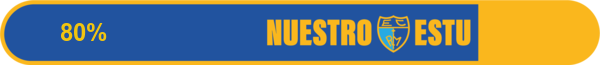
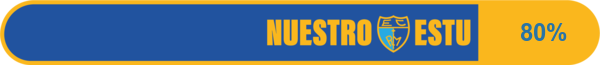
80%

Changed region(s): [[0.09, 0.3385, 0.18, 0.6462], [0.87, 0.3385, 0.96, 0.6462]]

diff --git a/public/noticias/encuesta/index.html b/public/noticias/encuesta/index.html
@@ -137,14 +137,14 @@
       <div class="service service-single">
         <div class="date">
           
-          Publicado: 2021-06-21, actualizado 2021-06-23
+          Publicado: 2021-06-21, actualizado 2021-06-27
           
         </div>
         <div class="content"><p>¡Ya tenemos nuestra encuesta!</p>
 <p>Nos interesa su opinión; hemos preparado una rapidísima encuesta. Le llevará muy poco tiempo contestarla y nos comprometemos a trasladar su resultado a la directiva.</p>
 <p>¡Ayúdenos a llegar a 1000 repuestas!</p>
 <div class="progressbar">
-<img src=/img/progbar-75.png alt=75% style="max-width: 100%">
+<img src=/img/progbar-80.png alt=80% style="max-width: 100%">
 </div>
 <iframe src="https://docs.google.com/forms/d/e/1FAIpQLSdsSQaVsEkUFBAuhsDd7TpCpMPtx6kA_iZXi_Hk7SD-1lQ00Q/viewform?embedded=true" width="90%" height="600" frameborder="0" marginheight="0" marginwidth="0">Chargement en cours…</iframe>
 </div>

diff --git a/content/noticias/encuesta.md b/content/noticias/encuesta.md
@@ -1,7 +1,7 @@
 ---
 title: 'Encuesta de Valoración'
 date: 2021-06-21
-lastmod: 2021-06-23
+lastmod: 2021-06-27
 icon: 'services/service-icon-4.png'
 featured: true
 draft: false
@@ -16,6 +16,6 @@ Nos interesa su opinión; hemos preparado una rapidísima encuesta. Le llevará 
 
 ¡Ayúdenos a llegar a 1000 repuestas!
 
-{{< progressbar src="/img/progbar-75.png" alt="75%" >}}
+{{< progressbar src="/img/progbar-80.png" alt="80%" >}}
 
 {{< survey src="1FAIpQLSdsSQaVsEkUFBAuhsDd7TpCpMPtx6kA_iZXi_Hk7SD-1lQ00Q" width="400" height="4871" >}}
